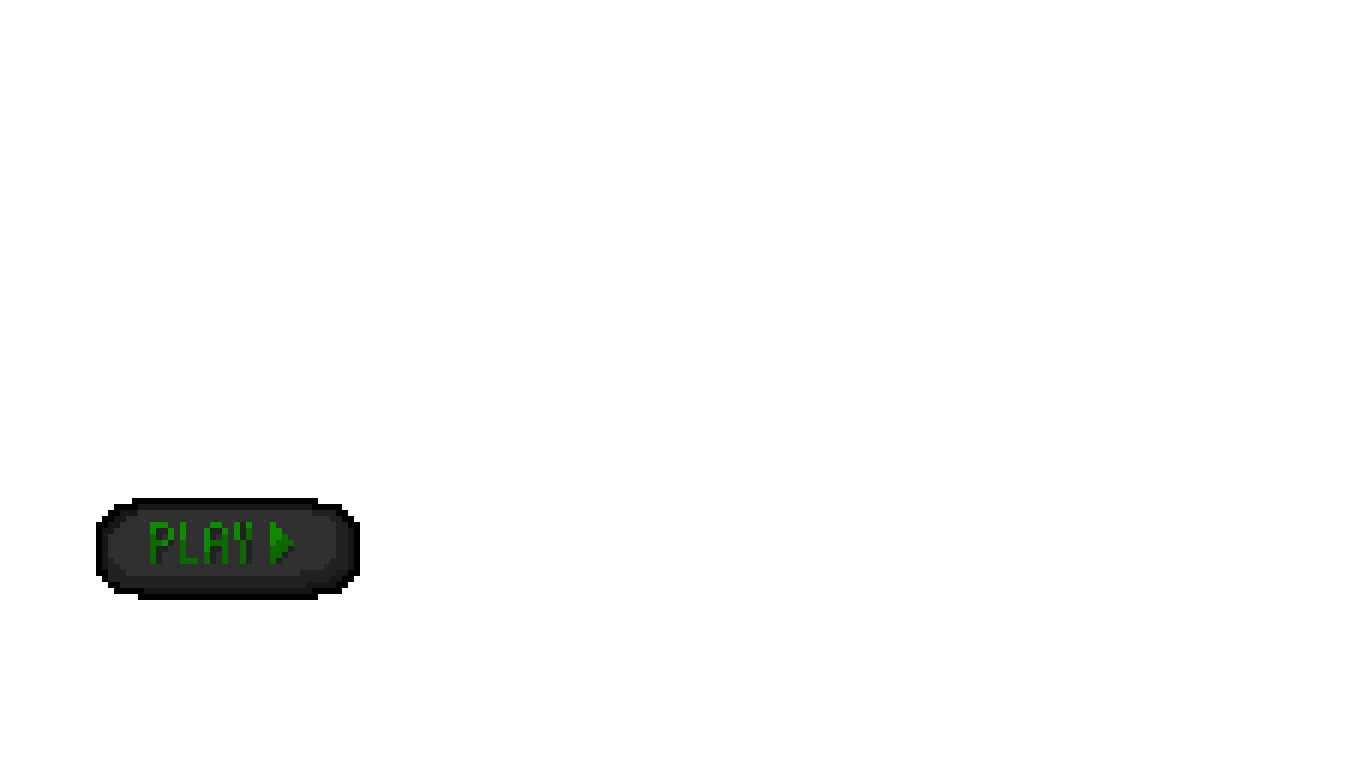
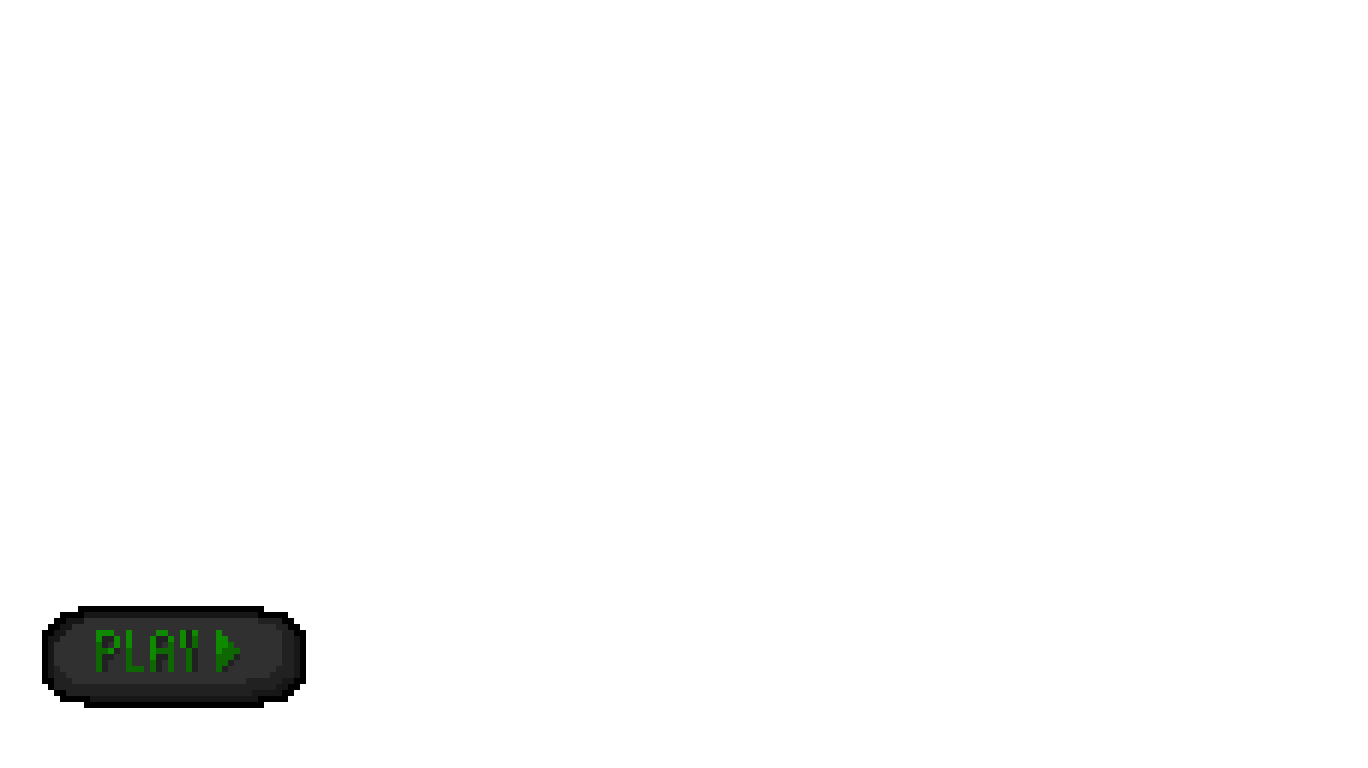
Computer angefangen, kleiner Commit vor dem Test mit forbiddenLine[] in den Dialogpackets.

Changed region(s): [[0.0307, 0.625, 0.2763, 0.9375]]

diff --git a/src/SPIEL.java b/src/SPIEL.java
@@ -18,7 +18,12 @@ public class SPIEL extends Game implements TastenLosgelassenReagierbar, Ticker, 
     private DebugAnzeige debugAnzeige9;
     private DebugAnzeige debugAnzeige10;
 
+
+    //Fade Screen
     private FadeScreen fadeScreen;
+
+    //COMPUTER / Fynstergram
+    private ComputerScreen computer;
 
     //sound
     private SoundController soundController;
@@ -39,7 +44,7 @@ public class SPIEL extends Game implements TastenLosgelassenReagierbar, Ticker, 
     private Punkt hotspot;
     private Maus maus;
 
-    //zähler für 2. tick routine;
+    //zähler für 2.tick routine;
     public int tickCounter;
 
 
@@ -79,6 +84,7 @@ public class SPIEL extends Game implements TastenLosgelassenReagierbar, Ticker, 
         debugAnzeige10 = new DebugAnzeige(1000, 30); //LastSelfBoolean
         Minigame2 = new Minigame2(ActivePlayer);
         itemController = new ItemController(ActivePlayer, gamesaver, DialogController4);
+        computer = new ComputerScreen();
 
         fadeScreen = new FadeScreen();
 
@@ -109,7 +115,6 @@ public class SPIEL extends Game implements TastenLosgelassenReagierbar, Ticker, 
         wurzel.add(itemController);
 
 
-
         //statischeWurzel.add(HouseLoader1);
         statischeWurzel.add(DialogController4);
 
@@ -127,12 +132,13 @@ public class SPIEL extends Game implements TastenLosgelassenReagierbar, Ticker, 
         statischeWurzel.add(debugAnzeige9);
         statischeWurzel.add(debugAnzeige10);
 
+        statischeWurzel.add(computer);
+
         statischeWurzel.add(fadeScreen);
 
 
         tastenReagierbarAnmelden(this);
         tastenLosgelassenReagierbarAnmelden(this);
-
 
 
         DialogController4.highLightReadyNpcs(); //einmal alle highlighten die können
@@ -151,7 +157,7 @@ public class SPIEL extends Game implements TastenLosgelassenReagierbar, Ticker, 
     }
 
     public void tick() {
-        if(initDone) {
+        if (initDone) {
             if (itemController.checkForCollision()) {
                 gamesaver.addItem(itemController.getCollidingItemName());
                 itemController.hideCollidingItem();
@@ -238,13 +244,16 @@ public class SPIEL extends Game implements TastenLosgelassenReagierbar, Ticker, 
     }
 
 
-
     //  https://engine-alpha.org/wiki/Tastaturtabelle
     public void tasteReagieren(int tastenkuerzel) {
         if (!StartSc.isActive()) {
             if (tastenkuerzel == 8) {//I als in
-                //map.enterHouse(ActivePlayer,0);
-                fadeScreen.startBlackFade();
+
+                if(computer.isActiv()){
+                    computer.closePC();
+                } else{
+                    computer.openPC();
+                }
             }
             if (tastenkuerzel == 14) {//o als out
                 //HouseLoader1.HideView();
@@ -268,7 +277,6 @@ public class SPIEL extends Game implements TastenLosgelassenReagierbar, Ticker, 
             }
 
 
-
             if (DialogController4.isWaitingForInput()) {
                 if (tastenkuerzel == 0) {
                     //System.out.println("Taste ist gedrückt und isWaitingForInputs = true");
@@ -289,13 +297,38 @@ public class SPIEL extends Game implements TastenLosgelassenReagierbar, Ticker, 
                 StartSc.ShiftRight();
             } else if (tastenkuerzel == 31) { //enter
                 int sel = StartSc.getSelection();
-                StartSc.startLoadingScreen();
-                if (sel == 1) {
+                switch (sel) {
+                    case (0):
+                        System.out.println("PLAY: Spiel wird gestartet");
+                        StartSc.startLoadingScreen();
+                        Konstruktor();
+                        fadeScreen.startBlackFade();
+                        break;
 
-                    NewGameLoader gl = new NewGameLoader();
-                    System.out.println("fertig mit Laden");
+                    case (1):
+                        System.out.println("NEW GAME: Spiel überschriebt Dateien");
+                        StartSc.startLoadingScreen();
+                        NewGameLoader gl = new NewGameLoader();
+                        //System.out.println("LADEN FERTIG!!");
+                        Konstruktor();
+                        fadeScreen.startBlackFade();
+                        break;
+
+                    case (2):
+                        System.out.println("EXIT KNOPF GEDRÜCKT: Spiel wird geschlossen");
+                        schliessen();
+                        break;
+
+                    case (3):
+                        System.out.println("ABOUT GEDRÜCKT: ------");
+                        break;
+
+                    case (4):
+                        System.out.println("SETTINGS GEDRÜCKT: ------");
+                        break;
                 }
-                Konstruktor();
+
+
             }
         }
     }

diff --git a/src/StartingScreen.java b/src/StartingScreen.java
@@ -21,7 +21,7 @@ public class StartingScreen extends Knoten {
     private Bild loadingPic;
 
 
-    private int ButtonCount = 2;
+    private int ButtonCount = 5;
     private Bild[] Buttons = new Bild[ButtonCount];
 
     private int selection = 0; //von 0 bis ButtonCount -1
@@ -52,8 +52,8 @@ public class StartingScreen extends Knoten {
         //System.out.println("FillButtonObjects");
         for (int i = 0; i < ButtonCount; i++) {
             //System.out.println(i);
-            Buttons[i] = new Bild(55 + i * 825, 108, "./Assets/StartingScreen/ButtonFinal" + i + ".png"); //jedes Bild 200 pixel weiter rechts
-            this.add(Buttons[i]);   //200 + i * 200, 400
+            Buttons[i] = new Bild(0, 0, "./Assets/StartingScreen/ButtonFinal" + i + ".png"); //jedes Bild 200 pixel weiter rechts
+            this.add(Buttons[i]);
         }
         UpdateButtons();
     }
@@ -98,6 +98,7 @@ public class StartingScreen extends Knoten {
 
     public int getSelection() {
         return selection;
+
     }
 
     public void setActive(boolean active) {
@@ -142,8 +143,9 @@ public class StartingScreen extends Knoten {
 
     public void startLoadingScreen() {
         BackgroundPic.sichtbarSetzen(false);
-        Buttons[0].sichtbarSetzen(false);
-        Buttons[1].sichtbarSetzen(false);
+        for (int i = 0; i < ButtonCount; i++) {
+            Buttons[i].sichtbarSetzen(false);
+        }
         loadingPic.sichtbarSetzen(true);
     }
 

diff --git a/src/ComputerScreen.java b/src/ComputerScreen.java
@@ -1,0 +1,47 @@
+import ea.Bild;
+import ea.Knoten;
+
+public class ComputerScreen extends Knoten {
+
+    private Bild mainOverlayImg;
+
+    private FadeScreen fadeScreen;
+
+    private boolean activ = false;
+
+    public ComputerScreen(){
+
+        //Bilder
+        mainOverlayImg = new Bild(0,0, "./Assets/Computer/overlay.png");
+        mainOverlayImg.sichtbarSetzen(false);
+        this.add(mainOverlayImg);
+
+        //FADESCRENN -> Ganz oben drauf
+        fadeScreen = new FadeScreen();
+        this.add(fadeScreen);
+    }
+    public void openPC(){
+        this.activ = true;
+        //fadeScreen.startBlackFade(); //das läuft dann durch
+        showWindow();
+    }
+
+    public void closePC(){
+        this.activ = false;
+        hideWindow();
+    }
+
+    public void showWindow(){
+        mainOverlayImg.sichtbarSetzen(true);
+        //...
+    }
+
+    public void hideWindow(){
+        mainOverlayImg.sichtbarSetzen(false);
+        //...
+    }
+
+    public boolean isActiv() {
+        return activ;
+    }
+}

diff --git a/src/NPC2.java b/src/NPC2.java
@@ -53,7 +53,7 @@ public class NPC2 extends Knoten {
             System.out.println("NPC2: " + e);
             e.printStackTrace();
         }
-        highLightImg = new Bild(posX-5, posY-5, highlighterPath);
+        highLightImg = new Bild(posX+2, posY-50, highlighterPath);
         this.add(highLightImg);
         highLightImg.sichtbarSetzen(highlightState);
 
